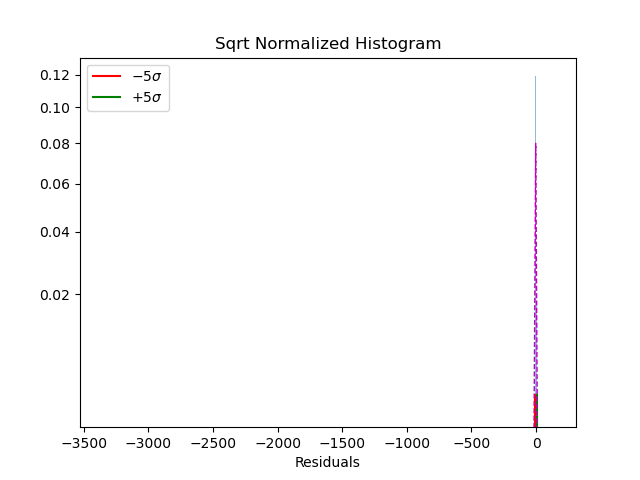
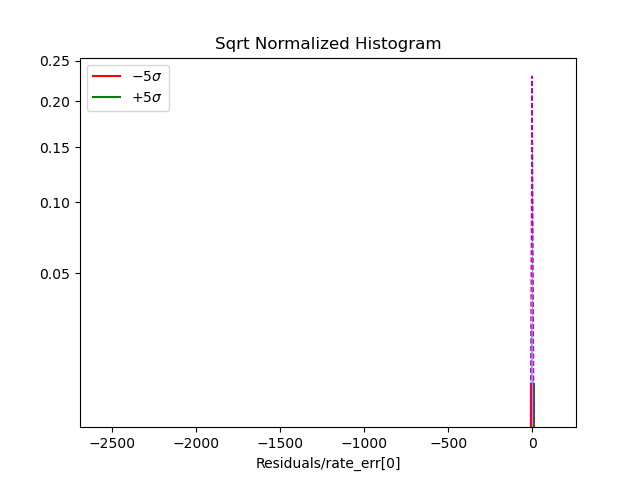
ran again visualization

diff --git a/src/visualizer.py b/src/visualizer.py
@@ -98,6 +98,7 @@ def plot_normalized_hist(data,
                          std,
                          transform="sqrt",
                          title="Normalized Histogram",
+                         xlabel="Residuals",
                          save_path="results/images/residual_hist.png"):
     """
     Plot normalized histogram along with a gaussian specified by mean, std.
@@ -118,7 +119,7 @@ def plot_normalized_hist(data,
             'r', label=r"$-5\sigma$")
     ax.plot([5*std, 5*std], [0, f(xs, mean, std).max()/36],
             'g', label=r"$+5\sigma$")
-    ax.set_xlabel("Residuals")
+    ax.set_xlabel(xlabel)
     ax.legend()
     if transform == "sqrt":
         ax.set_yscale(FuncScale(0, (lambda x: np.sqrt(x),
@@ -280,6 +281,7 @@ def plot_val_pull(dataset_val,
     plot_normalized_hist(pulls,
                          new_mean,
                          new_std,
+                         xlabel="Residuals/rate_err[0]",
                          save_path=save_path_hist)
 
 def plot_prediction_target_zoom(dataset,

diff --git a/src/trainer.py b/src/trainer.py
@@ -149,7 +149,11 @@ class Trainer:
                              self.cfg.dataset.val.size,
                              self.cfg.dataset.test.size]
         # TODO: use something else instead of random split
-        datasets = random_split(self.dataset_full, split_percentages)
+        match self.cfg.dataset.split_type:
+            case "periodical":
+                datasets = random_split(self.dataset_full, split_percentages)
+            case _:
+                datasets = random_split(self.dataset_full, split_percentages)
         self.dataset_train, self.dataset_val, self.dataset_test = datasets
         
         ### Process features by applying centering and reducing
